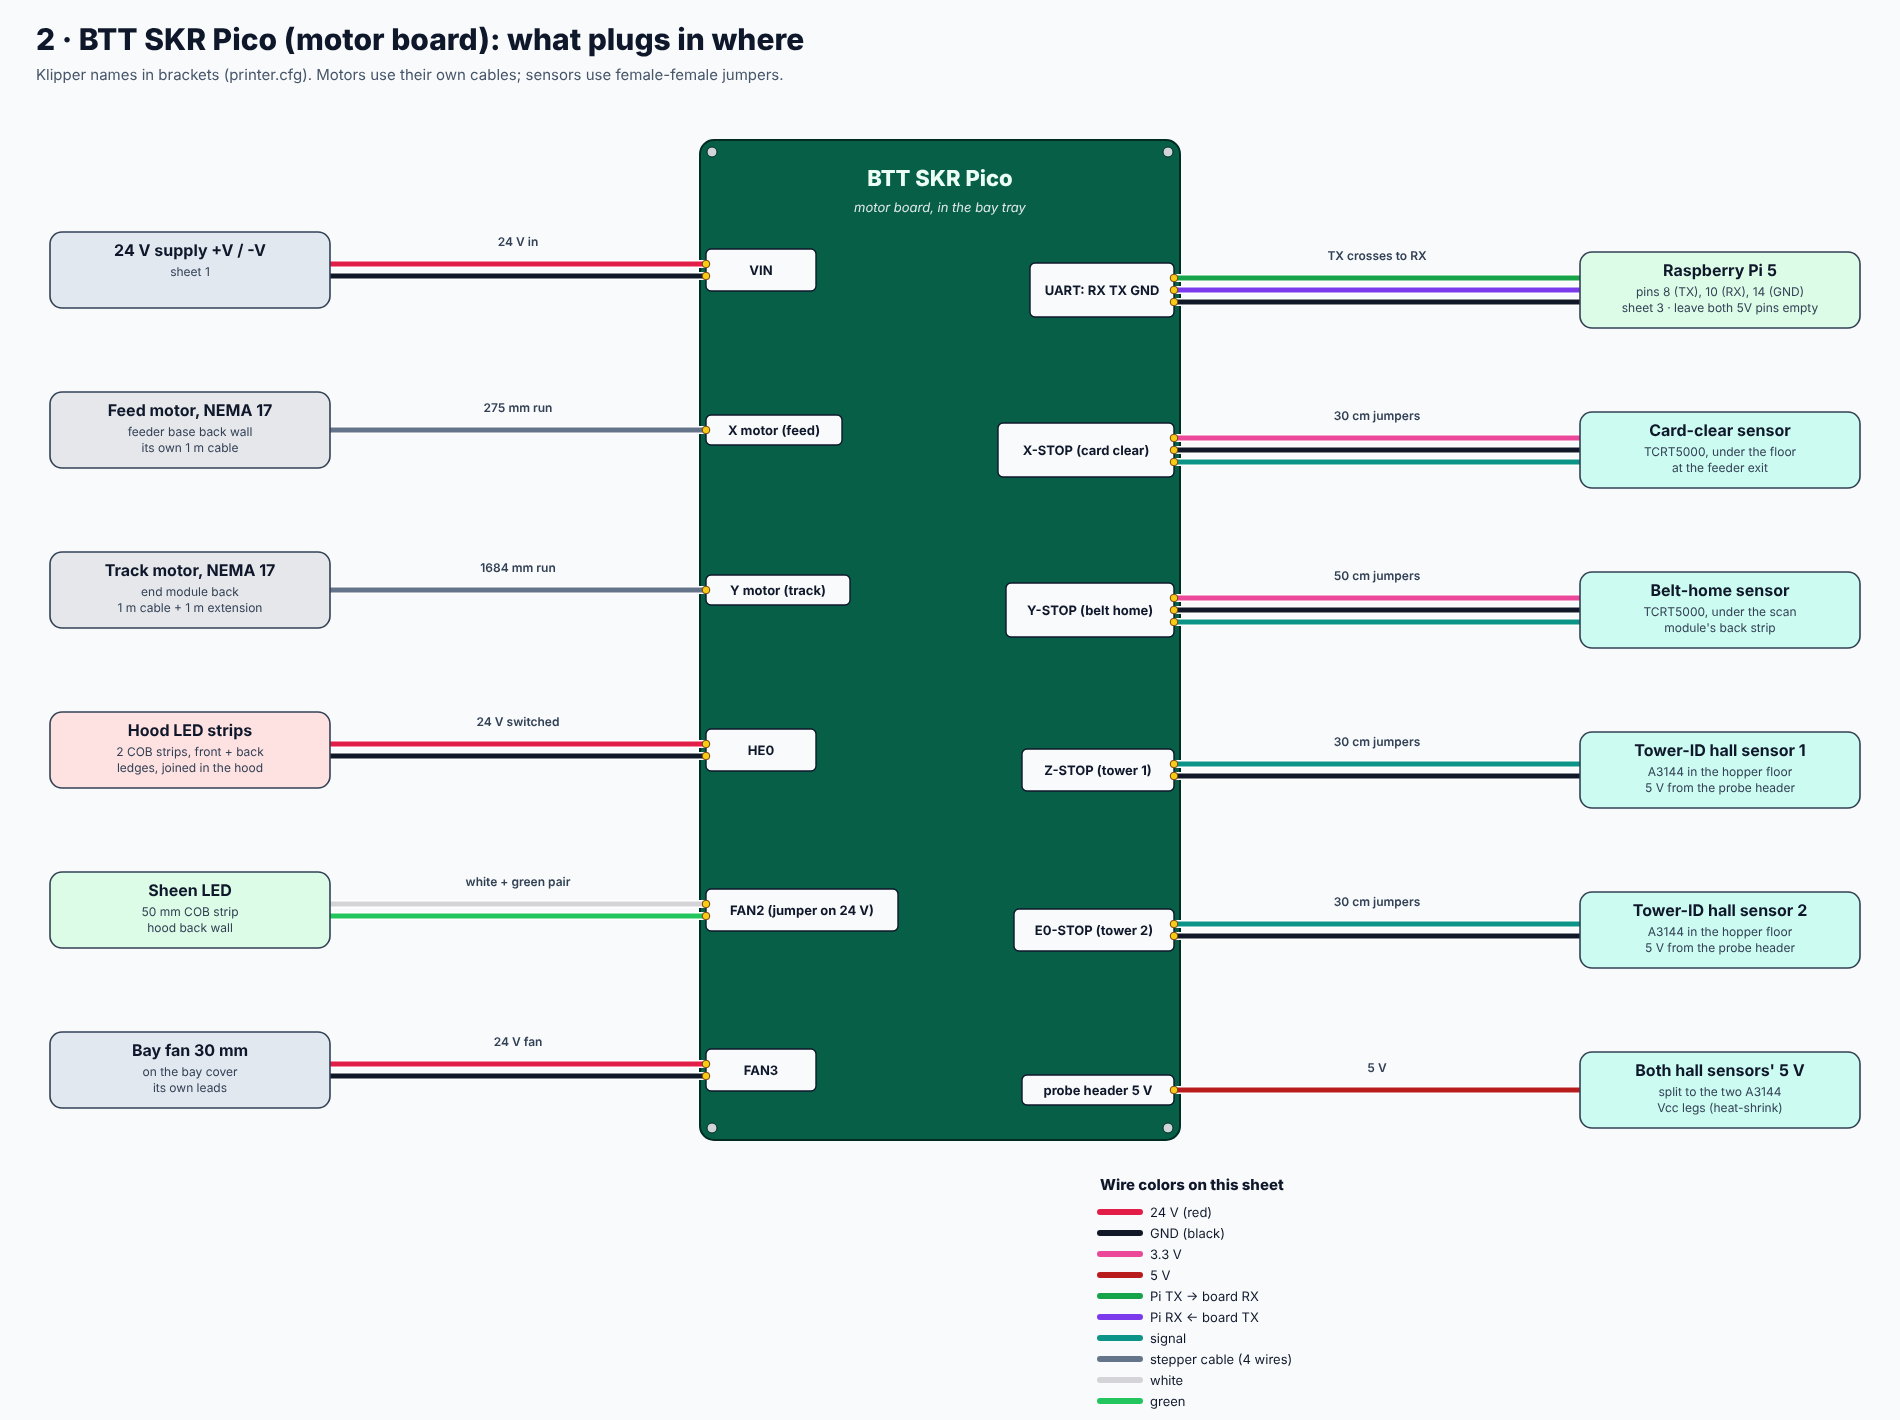
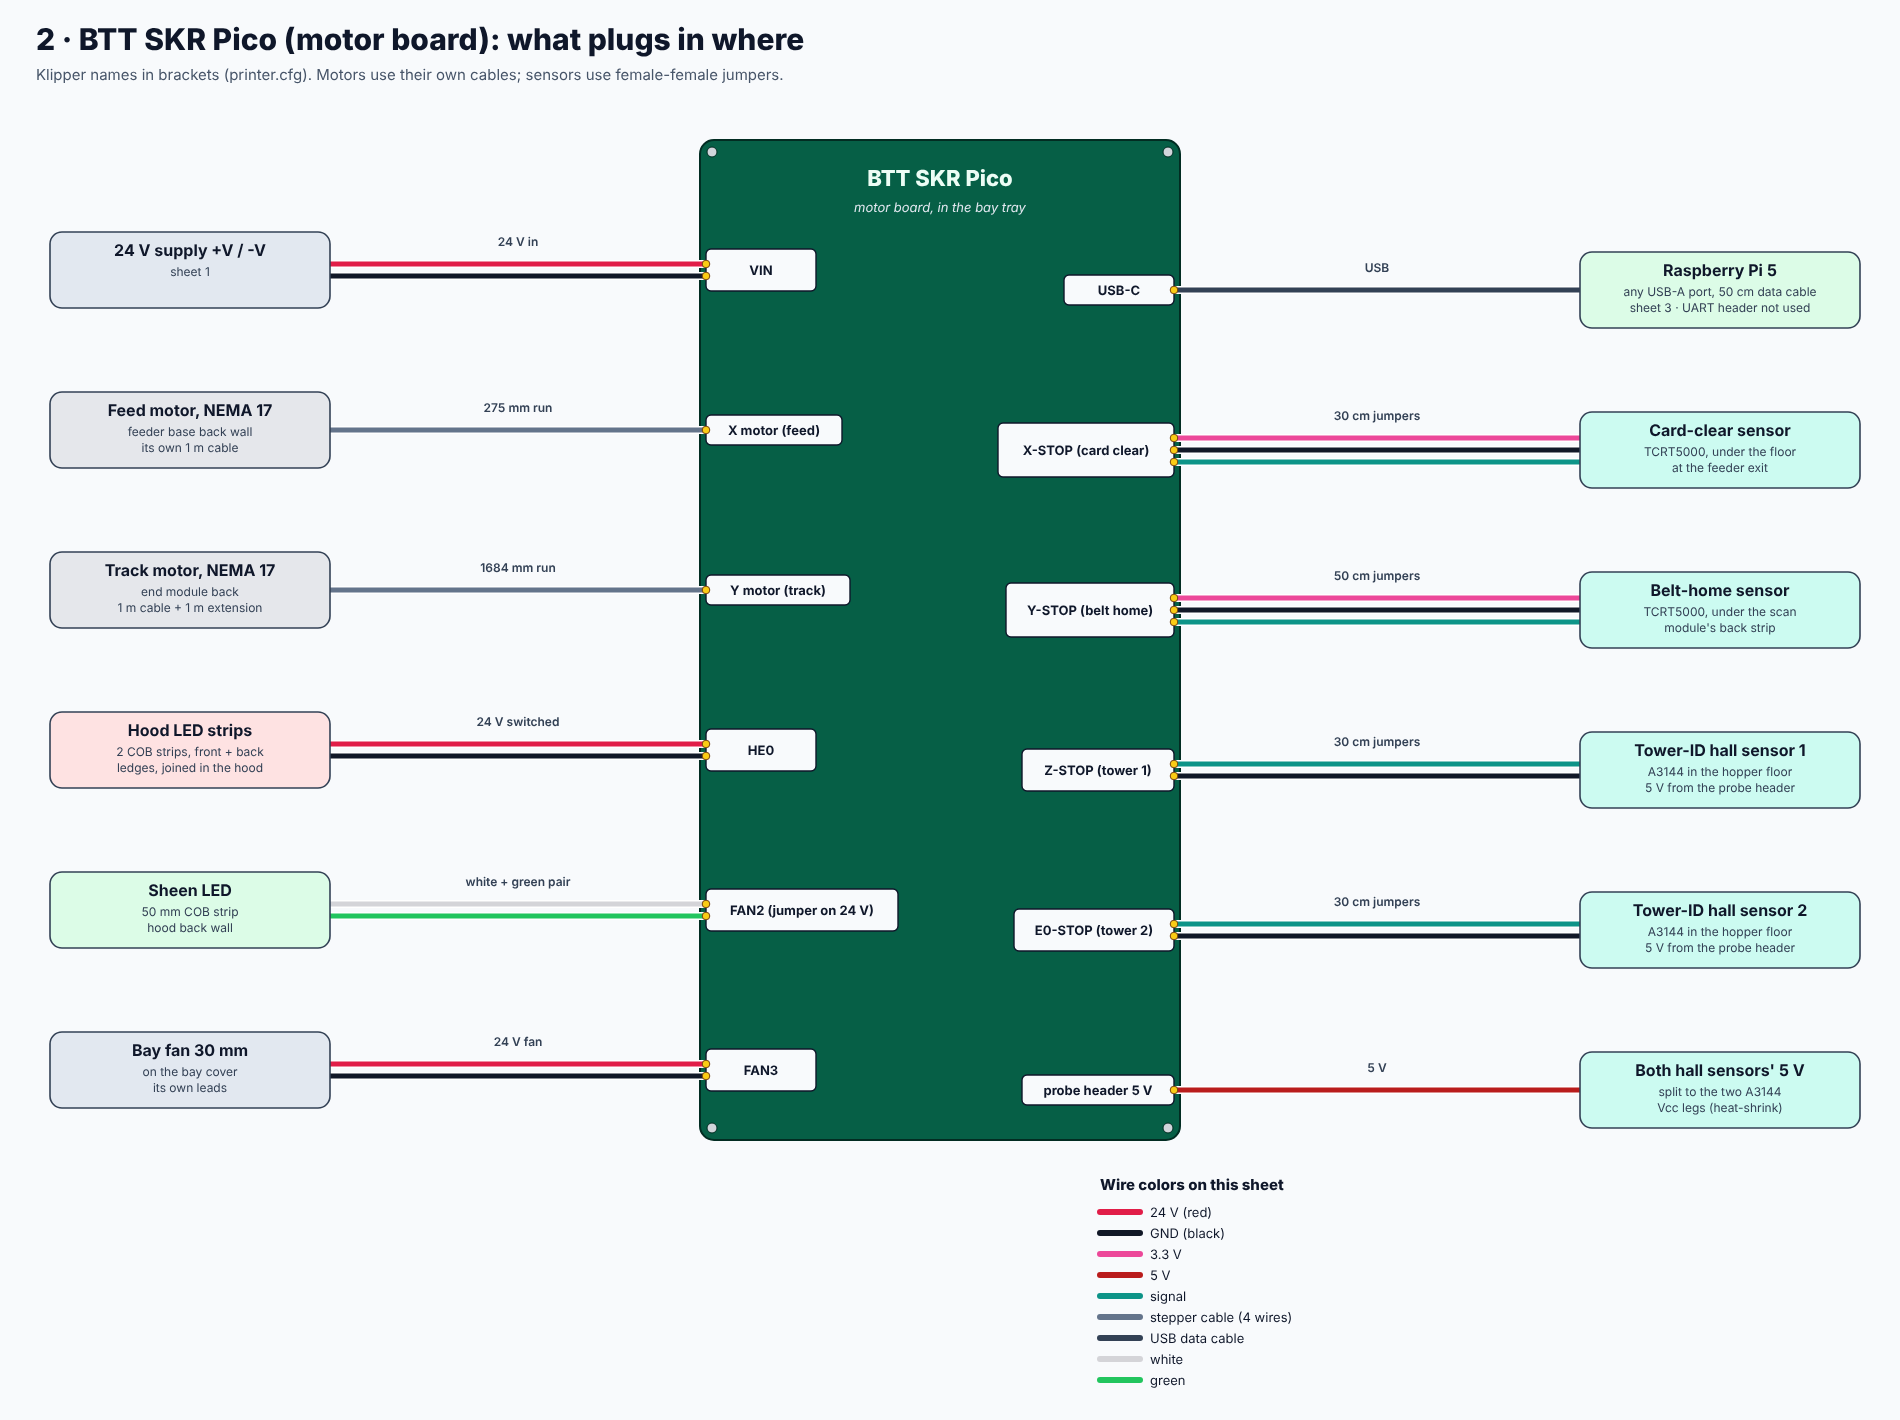
SKR Pico talks to the Pi over USB (its UART header echoed the Pi's TX back): firmware USB, printer.cfg serial by-id, wiring docs + diagrams
Claude-Session: https://claude.ai/code/session_01FgJd7uaUSCiZr7r8m5h9mH

Changed region(s): [[0.5279, 0.1549, 0.8384, 0.2479], [0.5589, 0.8986, 0.6832, 0.9915], [0.8695, 0.1859, 0.9626, 0.2169]]

diff --git a/hardware/cad/wiring_diagram.py b/hardware/cad/wiring_diagram.py
@@ -18,12 +18,12 @@ OUT_DIR = os.path.join(HERE, "..", "wiring")
 
 COL = {  # wire colors
     "24V": "#e11d48", "GND": "#111827", "6V": "#f97316", "3V3": "#ec4899", "5V": "#b91c1c", "SDA": "#2563eb",
-    "SCL": "#eab308", "TX": "#16a34a", "RX": "#7c3aed", "SIG": "#0d9488", "MOT": "#64748b", "RIB": "#94a3b8",
+    "SCL": "#eab308", "TX": "#16a34a", "RX": "#7c3aed", "SIG": "#0d9488", "MOT": "#64748b", "RIB": "#94a3b8", "USB": "#334155",
     "L": "#92400e", "N": "#1d4ed8", "PE": "#65a30d", "WHT": "#d4d4d8", "GRN": "#22c55e",
 }
 NAMES = {"24V": "24 V (red)", "GND": "GND (black)", "6V": "6 V servo bus (red wire; orange here)", "3V3": "3.3 V", "5V": "5 V",
          "SDA": "SDA (blue)", "SCL": "SCL (yellow)", "TX": "Pi TX → board RX", "RX": "Pi RX ← board TX",
-         "SIG": "signal", "MOT": "stepper cable (4 wires)", "RIB": "ribbon cable", "L": "mains L (brown)",
+         "SIG": "signal", "MOT": "stepper cable (4 wires)", "RIB": "ribbon cable", "USB": "USB data cable", "L": "mains L (brown)",
          "N": "mains N (blue)", "PE": "earth (green/yellow)", "WHT": "white", "GRN": "green"}
 
 
@@ -146,7 +146,7 @@ def skr():
         ("FAN3", ["24V", "GND"], "Bay fan 30 mm", "on the bay cover\nits own leads", "#e2e8f0", "24 V fan"),
     ], 50, 280, 270, 160)
     side_devices(sh, "right", 1180, [
-        ("UART: RX TX GND", ["TX", "RX", "GND"], "Raspberry Pi 5", "pins 8 (TX), 10 (RX), 14 (GND)\nsheet 3 · leave both 5V pins empty", "#dcfce7", "TX crosses to RX"),
+        ("USB-C", ["USB"], "Raspberry Pi 5", "any USB-A port, 50 cm data cable\nsheet 3 · UART header not used", "#dcfce7", "USB"),
         ("X-STOP (card clear)", ["3V3", "GND", "SIG"], "Card-clear sensor", "TCRT5000, under the floor\nat the feeder exit", "#ccfbf1", "30 cm jumpers"),
         ("Y-STOP (belt home)", ["3V3", "GND", "SIG"], "Belt-home sensor", "TCRT5000, under the scan\nmodule's back strip", "#ccfbf1", "50 cm jumpers"),
         ("Z-STOP (tower 1)", ["SIG", "GND"], "Tower-ID hall sensor 1", "A3144 in the hopper floor\n5 V from the probe header", "#ccfbf1", "30 cm jumpers"),
@@ -169,14 +169,12 @@ def pi():
         ("pin 2 (5 V)  pin 6 (GND)", ["5V", "GND"], "Touch Display 2 power", "the display's power lead", "#dbeafe", "display power"),
     ], 50, 280, 290, 190)
     side_devices(sh, "right", 1140, [
-        ("pin 8 (TX)", ["TX"], "SKR Pico UART RX", "sheet 2 · 40 cm jumper", "#d1fae5", "UART"),
-        ("pin 10 (RX)", ["RX"], "SKR Pico UART TX", "sheet 2 · 40 cm jumper", "#d1fae5", "UART"),
-        ("pin 14 (GND)", ["GND"], "SKR Pico UART GND", "sheet 2", "#d1fae5", "UART ground (pin 6 is the display)"),
+        ("USB-A port", ["USB"], "SKR Pico USB-C", "sheet 2 · 50 cm data cable", "#d1fae5", "USB"),
         ("pin 3 (SDA)", ["SDA"], "Bin bus SDA", "bay junction → hub (sheet 4)", "#dbeafe", "I2C"),
         ("pin 5 (SCL)", ["SCL"], "Bin bus SCL", "bay junction → hub (sheet 4)", "#dbeafe", "I2C"),
         ("pin 9 (GND)", ["GND"], "Bin bus GND", "bay junction → hub (sheet 4)", "#dbeafe", "I2C ground"),
     ], 1510, 240, 300, 125)
-    sh.text(50, 1000, "UART and I2C jumpers run together in one black braided sleeve: pod → notch → bay-cover slot.", 14, 600, "#334155")
+    sh.text(50, 1000, "The SKR's USB cable and the I2C jumpers run together in one black braided sleeve: pod → notch → bay-cover slot.", 14, 600, "#334155")
     sh.legend(1200, 1000)
     sh.save("3-pi5")
 

diff --git a/hardware/cad/wiring.py b/hardware/cad/wiring.py
@@ -80,8 +80,8 @@ def runs():
         "the cables in the display box")
     out[-1]["internal"] = True                     # inside the pod, between two boards that are screwed together
     loom = [PI_HDR, POD_NOTCH, BAY_SLOT, (BAY_SLOT[0], -40, 80)]
-    add("UART to the motor board (TX, RX, GND)", "Pi pins 8, 10, 14", "SKR Pico UART header", "pod -> notch -> bay-cover slot -> tray",
-        loom + [SKR], 400, "female-female jumpers, 40 cm (in one black braided sleeve with the I2C pair)")
+    add("USB to the motor board", "Pi USB-A port", "SKR Pico USB-C", "pod -> notch -> bay-cover slot -> tray",
+        loom + [SKR], 500, "USB-A to USB-C data cable, 50 cm (in the black braided sleeve with the I2C wires)")
     add("I2C to the bay junction (SDA, SCL, GND)", "Pi pins 3, 5, 9", "bay junction (joins the bin bus)", "same loom",
         loom + [JUNC], 400, "female-female jumpers, 40 cm")
     # --- the bin bus: one 4-wire loom from the bay to the hub on bin module 2
@@ -177,11 +177,11 @@ if __name__ == "__main__":
               "on channel 0 (not 0x70: the PCA9685 answers its all-call there). Pololu D24V5F3 3.3 V regulator from the bus's 6 V powers the logic, the sensors and the emitters.",
               "Each VL53L1X is alone on its switch channel, so they all keep address 0x29 and need no XSHUT wire.", "",
               "## Pins",
-              "Pi 5: UART 14/15 (pins 8/10) to the SKR Pico, I2C SDA/SCL (pins 3/5) to the bin bus, GND on 14/9 (UART/I2C); display power on",
+              "Pi 5: USB to the SKR Pico, I2C SDA/SCL (pins 3/5) to the bin bus, GND on pin 9; display power on",
               "pins 2 (5 V) and 6. Nothing else: every per-bin signal lives on the hub.",
               "SKR Pico: X (feed), Y (track), X-STOP (card-clear), Y-STOP (belt-home), Z-STOP + E0-STOP (tower-ID hall sensors,",
               "5 V from the probe header), HE0 (hood LEDs), FAN2 (sheen LED, jumper on 24 V), FAN3 (bay fan), VIN 24 V,",
-              "UART header to the Pi. All grounds are common (PSU -V)."]
+              "USB-C to the Pi (its UART header is not used). All grounds are common (PSU -V)."]
     p = os.path.join(os.path.dirname(os.path.abspath(__file__)), "..", "WIRING.md")
     open(p, "w").write("\n".join(lines) + "\n")
     for r in rows:

diff --git a/hardware/WIRING.md b/hardware/WIRING.md
@@ -15,7 +15,7 @@ Picture diagrams, one per board (what plugs in where, wires in their real colors
 | USB-C power (Pi) | 5 V USB-C converter (in the pod) | Pi 5 USB-C | inside the pod (coil the spare beside the converter) | 76 mm (3.0 in) | 280 mm (11.0 in): the converter's own 12 in (305 mm) lead | yes | A |
 | Camera ribbon | Pi 5 CAM/DISP 0 | HQ camera (connector facing left) | out the pod's back -> back across the gap above the conveyor -> up beside the hood (one long twist) -> under the L-rails -> through the slot straight into the camera | 337 mm (13.3 in) | 500 mm (19.7 in): Pi 5 camera cable, 500 mm (22-pin mini -> 15-pin standard) | yes | A |
 | Display ribbon + power | Pi 5 CAM/DISP 1 + pins 2/6 | Touch Display 2 | inside the pod | 60 mm (2.4 in) | 100 mm (3.9 in): the cables in the display box | yes | A |
-| UART to the motor board (TX, RX, GND) | Pi pins 8, 10, 14 | SKR Pico UART header | pod -> notch -> bay-cover slot -> tray | 270 mm (10.6 in) | 400 mm (15.7 in): female-female jumpers, 40 cm (in one black braided sleeve with the I2C pair) | yes | A |
+| USB to the motor board | Pi USB-A port | SKR Pico USB-C | pod -> notch -> bay-cover slot -> tray | 270 mm (10.6 in) | 500 mm (19.7 in): USB-A to USB-C data cable, 50 cm (in the black braided sleeve with the I2C wires) | yes | A |
 | I2C to the bay junction (SDA, SCL, GND) | Pi pins 3, 5, 9 | bay junction (joins the bin bus) | same loom | 312 mm (12.3 in) | 400 mm (15.7 in): female-female jumpers, 40 cm | yes | A |
 | Bin bus (6 V, GND, SDA, SCL) | 6 V step-down + bay junction | bin hub: PCA9685 V+/GND, 3.3 V regulator in, I2C in | bay -> back window -> back channel -> up into the hub's window | 608 mm (23.9 in) | 22 AWG: red 6 V, black GND, blue SDA, yellow SCL (twist SDA with GND and SCL with GND), cut to length | cut to length | A |
 | Feed motor | feeder base back wall (NEMA 17) | SKR Pico X driver | down the back of the base -> back window -> tray | 191 mm (7.5 in) | 1000 mm (39.4 in): the motor's own 1 m cable (coil the spare) | yes | A |
@@ -68,8 +68,8 @@ on channel 0 (not 0x70: the PCA9685 answers its all-call there). Pololu D24V5F3 
 Each VL53L1X is alone on its switch channel, so they all keep address 0x29 and need no XSHUT wire.
 
 ## Pins
-Pi 5: UART 14/15 (pins 8/10) to the SKR Pico, I2C SDA/SCL (pins 3/5) to the bin bus, GND on 14/9 (UART/I2C); display power on
+Pi 5: USB to the SKR Pico, I2C SDA/SCL (pins 3/5) to the bin bus, GND on pin 9; display power on
 pins 2 (5 V) and 6. Nothing else: every per-bin signal lives on the hub.
 SKR Pico: X (feed), Y (track), X-STOP (card-clear), Y-STOP (belt-home), Z-STOP + E0-STOP (tower-ID hall sensors,
 5 V from the probe header), HE0 (hood LEDs), FAN2 (sheen LED, jumper on 24 V), FAN3 (bay fan), VIN 24 V,
-UART header to the Pi. All grounds are common (PSU -V).
+USB-C to the Pi (its UART header is not used). All grounds are common (PSU -V).

diff --git a/machine/README.md b/machine/README.md
@@ -8,7 +8,7 @@ every finished session to `Sessions\Machine\`. Any phone or PC on the Wi-Fi can 
 (download CSVs, review cards, watch a run).
 
 ```
-PC app (Windows) <--Wi-Fi--  sorter.py (Pi) --Moonraker--> Klipper --UART--> SKR Pico --> 2 steppers, 2 TCRT,
+PC app (Windows) <--Wi-Fi--  sorter.py (Pi) --Moonraker--> Klipper --USB--> SKR Pico --> 2 steppers, 2 TCRT,
                                   |                                                       2 tower-ID hall sensors, LEDs
                                   |--I2C (4-wire bin bus)--> bin hub on bin module 2:
                                   |        PCA9685 (8 door servos), MCP23017 (8 break-beams), 2 x TCA9548A (9 VL53L1X)
@@ -48,7 +48,7 @@ computer: `python3 sorter/app.py --sim --port 8080` and open http://localhost:80
 cd ~/klipper && make menuconfig
   Micro-controller: Raspberry Pi RP2040
   Bootloader offset: No bootloader
-  Communication interface: UART0 on GPIO1/GPIO0
+  Communication interface: USB
 make
 ```
 Flash it over USB (the SKR Pico has no BOOT button: it uses jumpers):
@@ -56,8 +56,9 @@ Flash it over USB (the SKR Pico has no BOOT button: it uses jumpers):
 2. USB-C cable from the SKR to a Pi USB port, then press the SKR's **RESET** button.
 3. `lsusb` should list `2e8a:0003` (Raspberry Pi RP2 Boot).
 4. `sudo apt install -y libusb-1.0-0-dev` (once), then `make flash FLASH_DEVICE=2e8a:0003`.
-5. Unplug the USB and take **both jumpers off** (the board runs from 24 V and talks to the Pi over the 3-wire
-   UART from then on; the USB power jumper is only for flashing without 24 V).
+5. Take **both jumpers off** and tap RST. The board runs from 24 V and talks to the Pi over that same USB-C cable
+   (the 3-wire UART header echoed the Pi's own messages back on our board, so we use USB).
+6. `ls /dev/serial/by-id/` shows `usb-Klipper_rp2040_...`: put that path on the `serial:` line of printer.cfg.
 
 Copy the config: `cp ~/mtg-card-scanner/machine/klipper/printer.cfg ~/printer_data/config/printer.cfg`
 and restart Klipper (`sudo systemctl restart klipper`).
